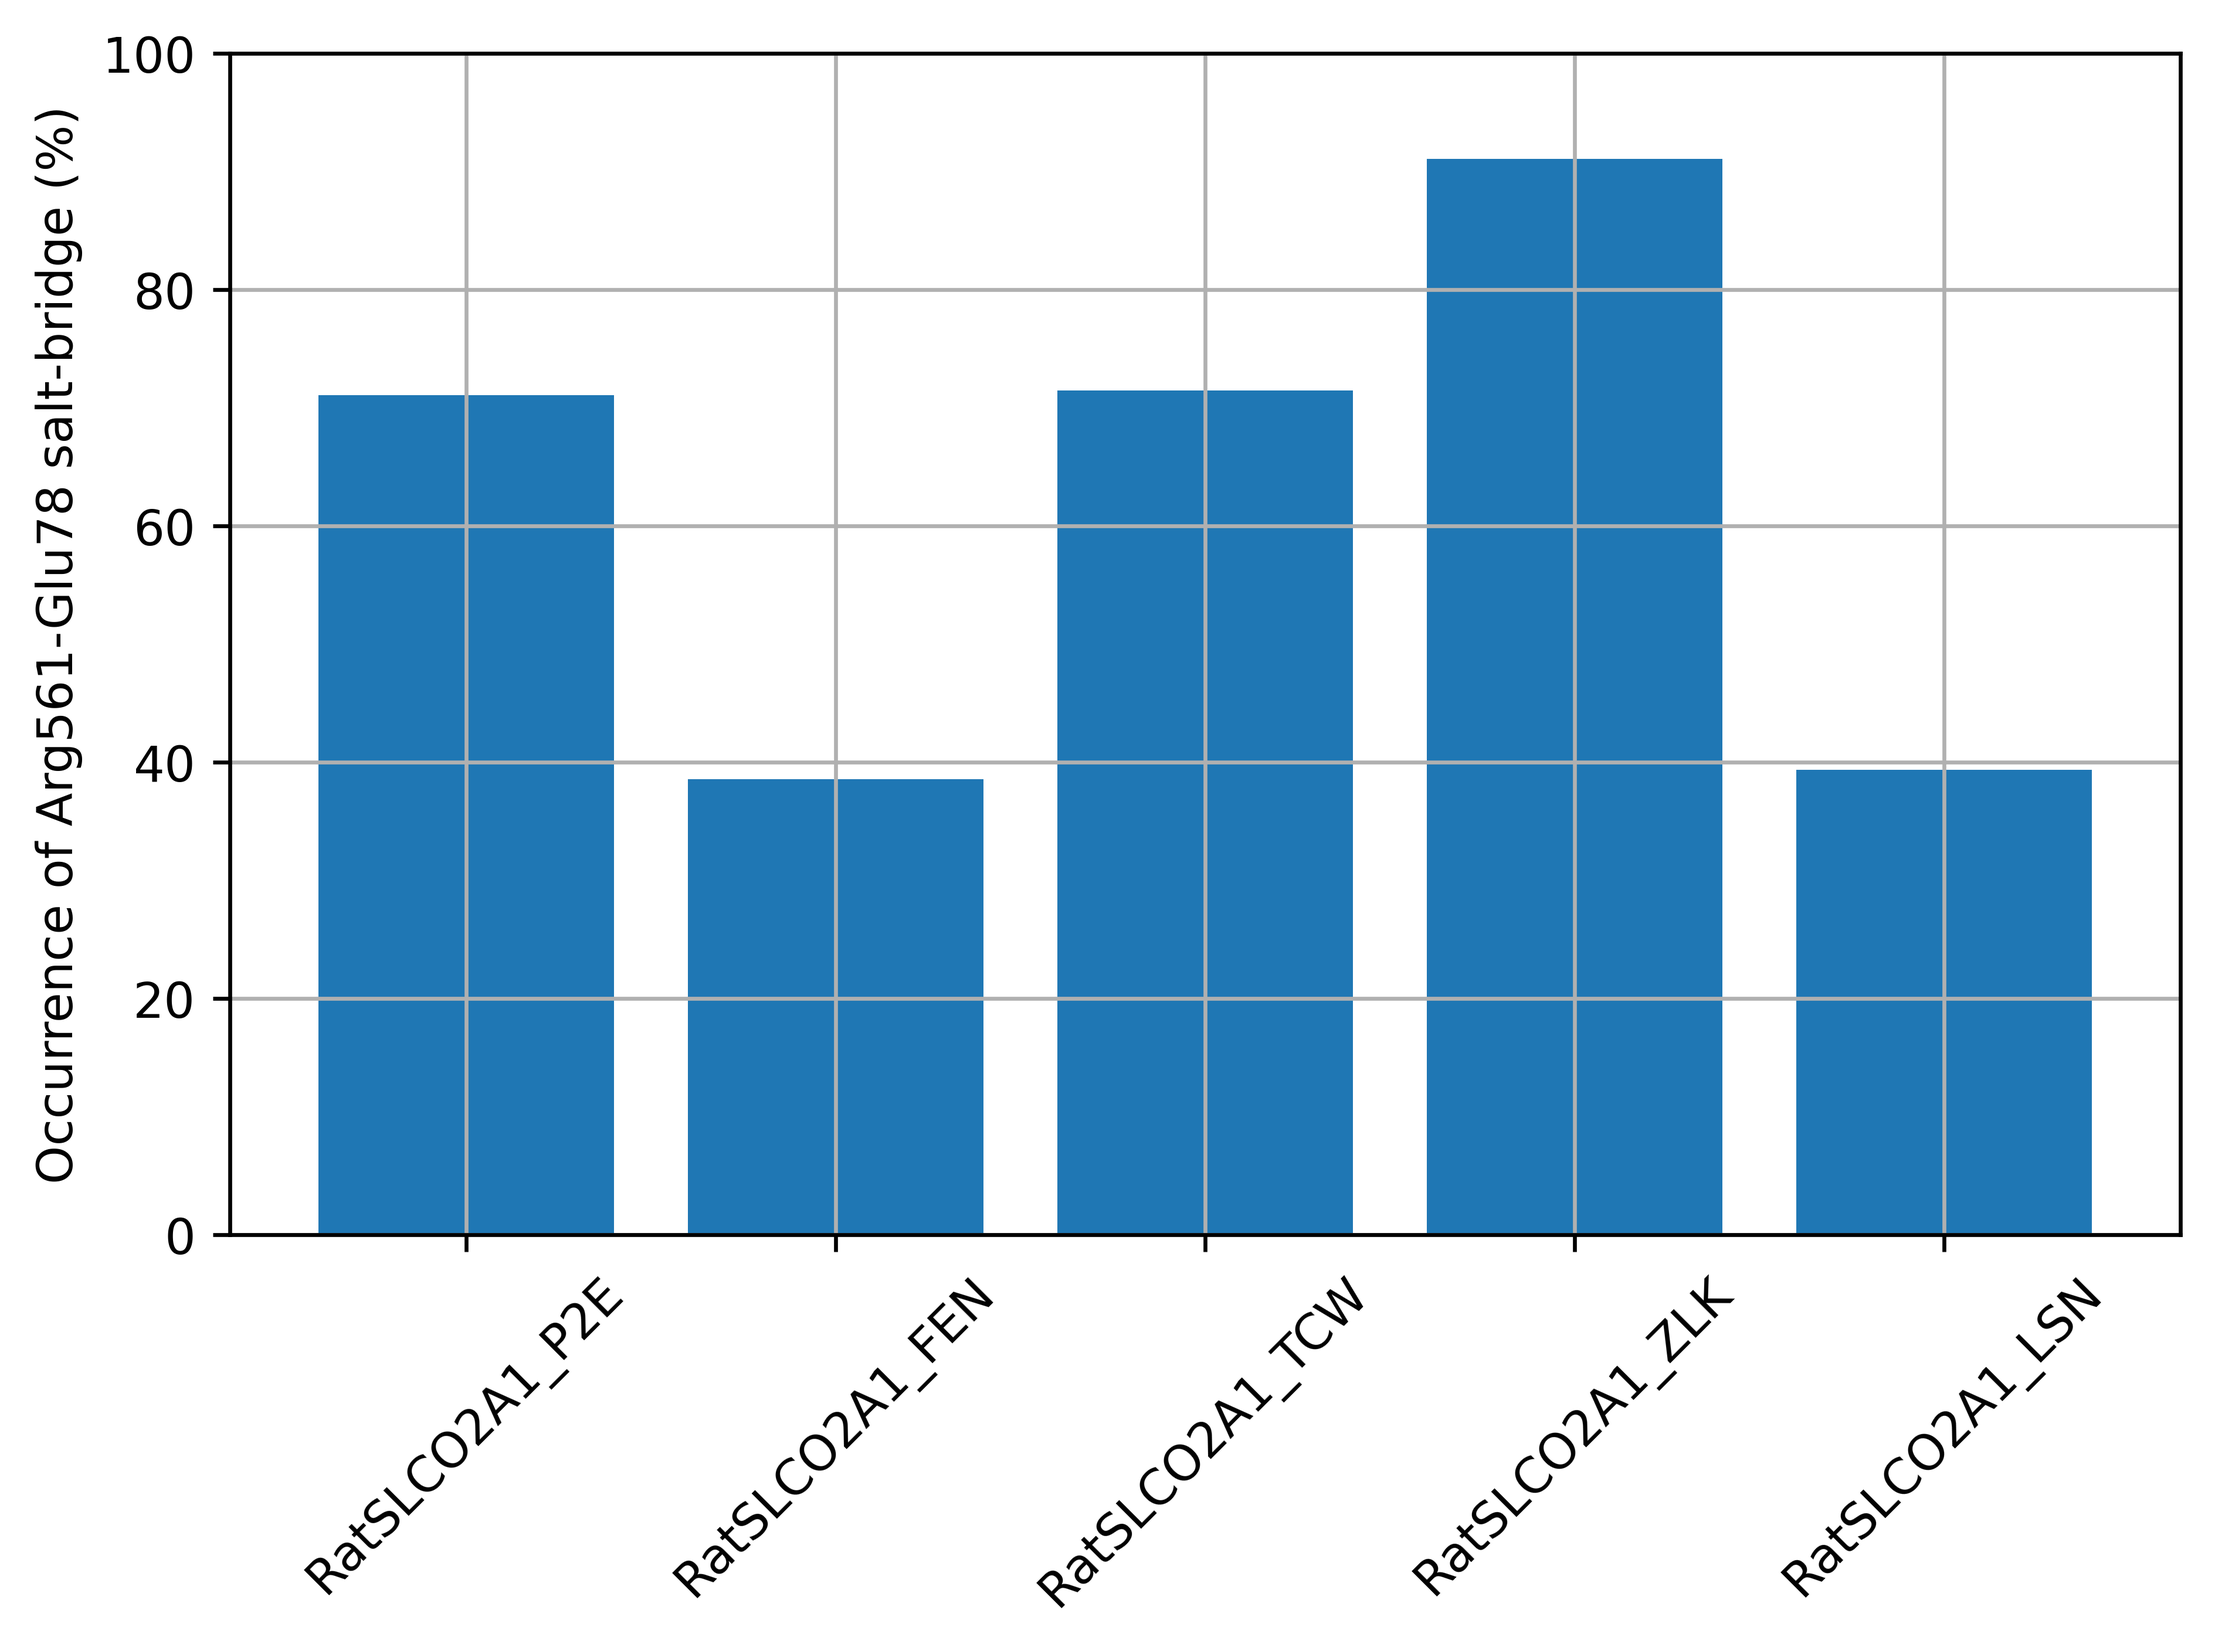
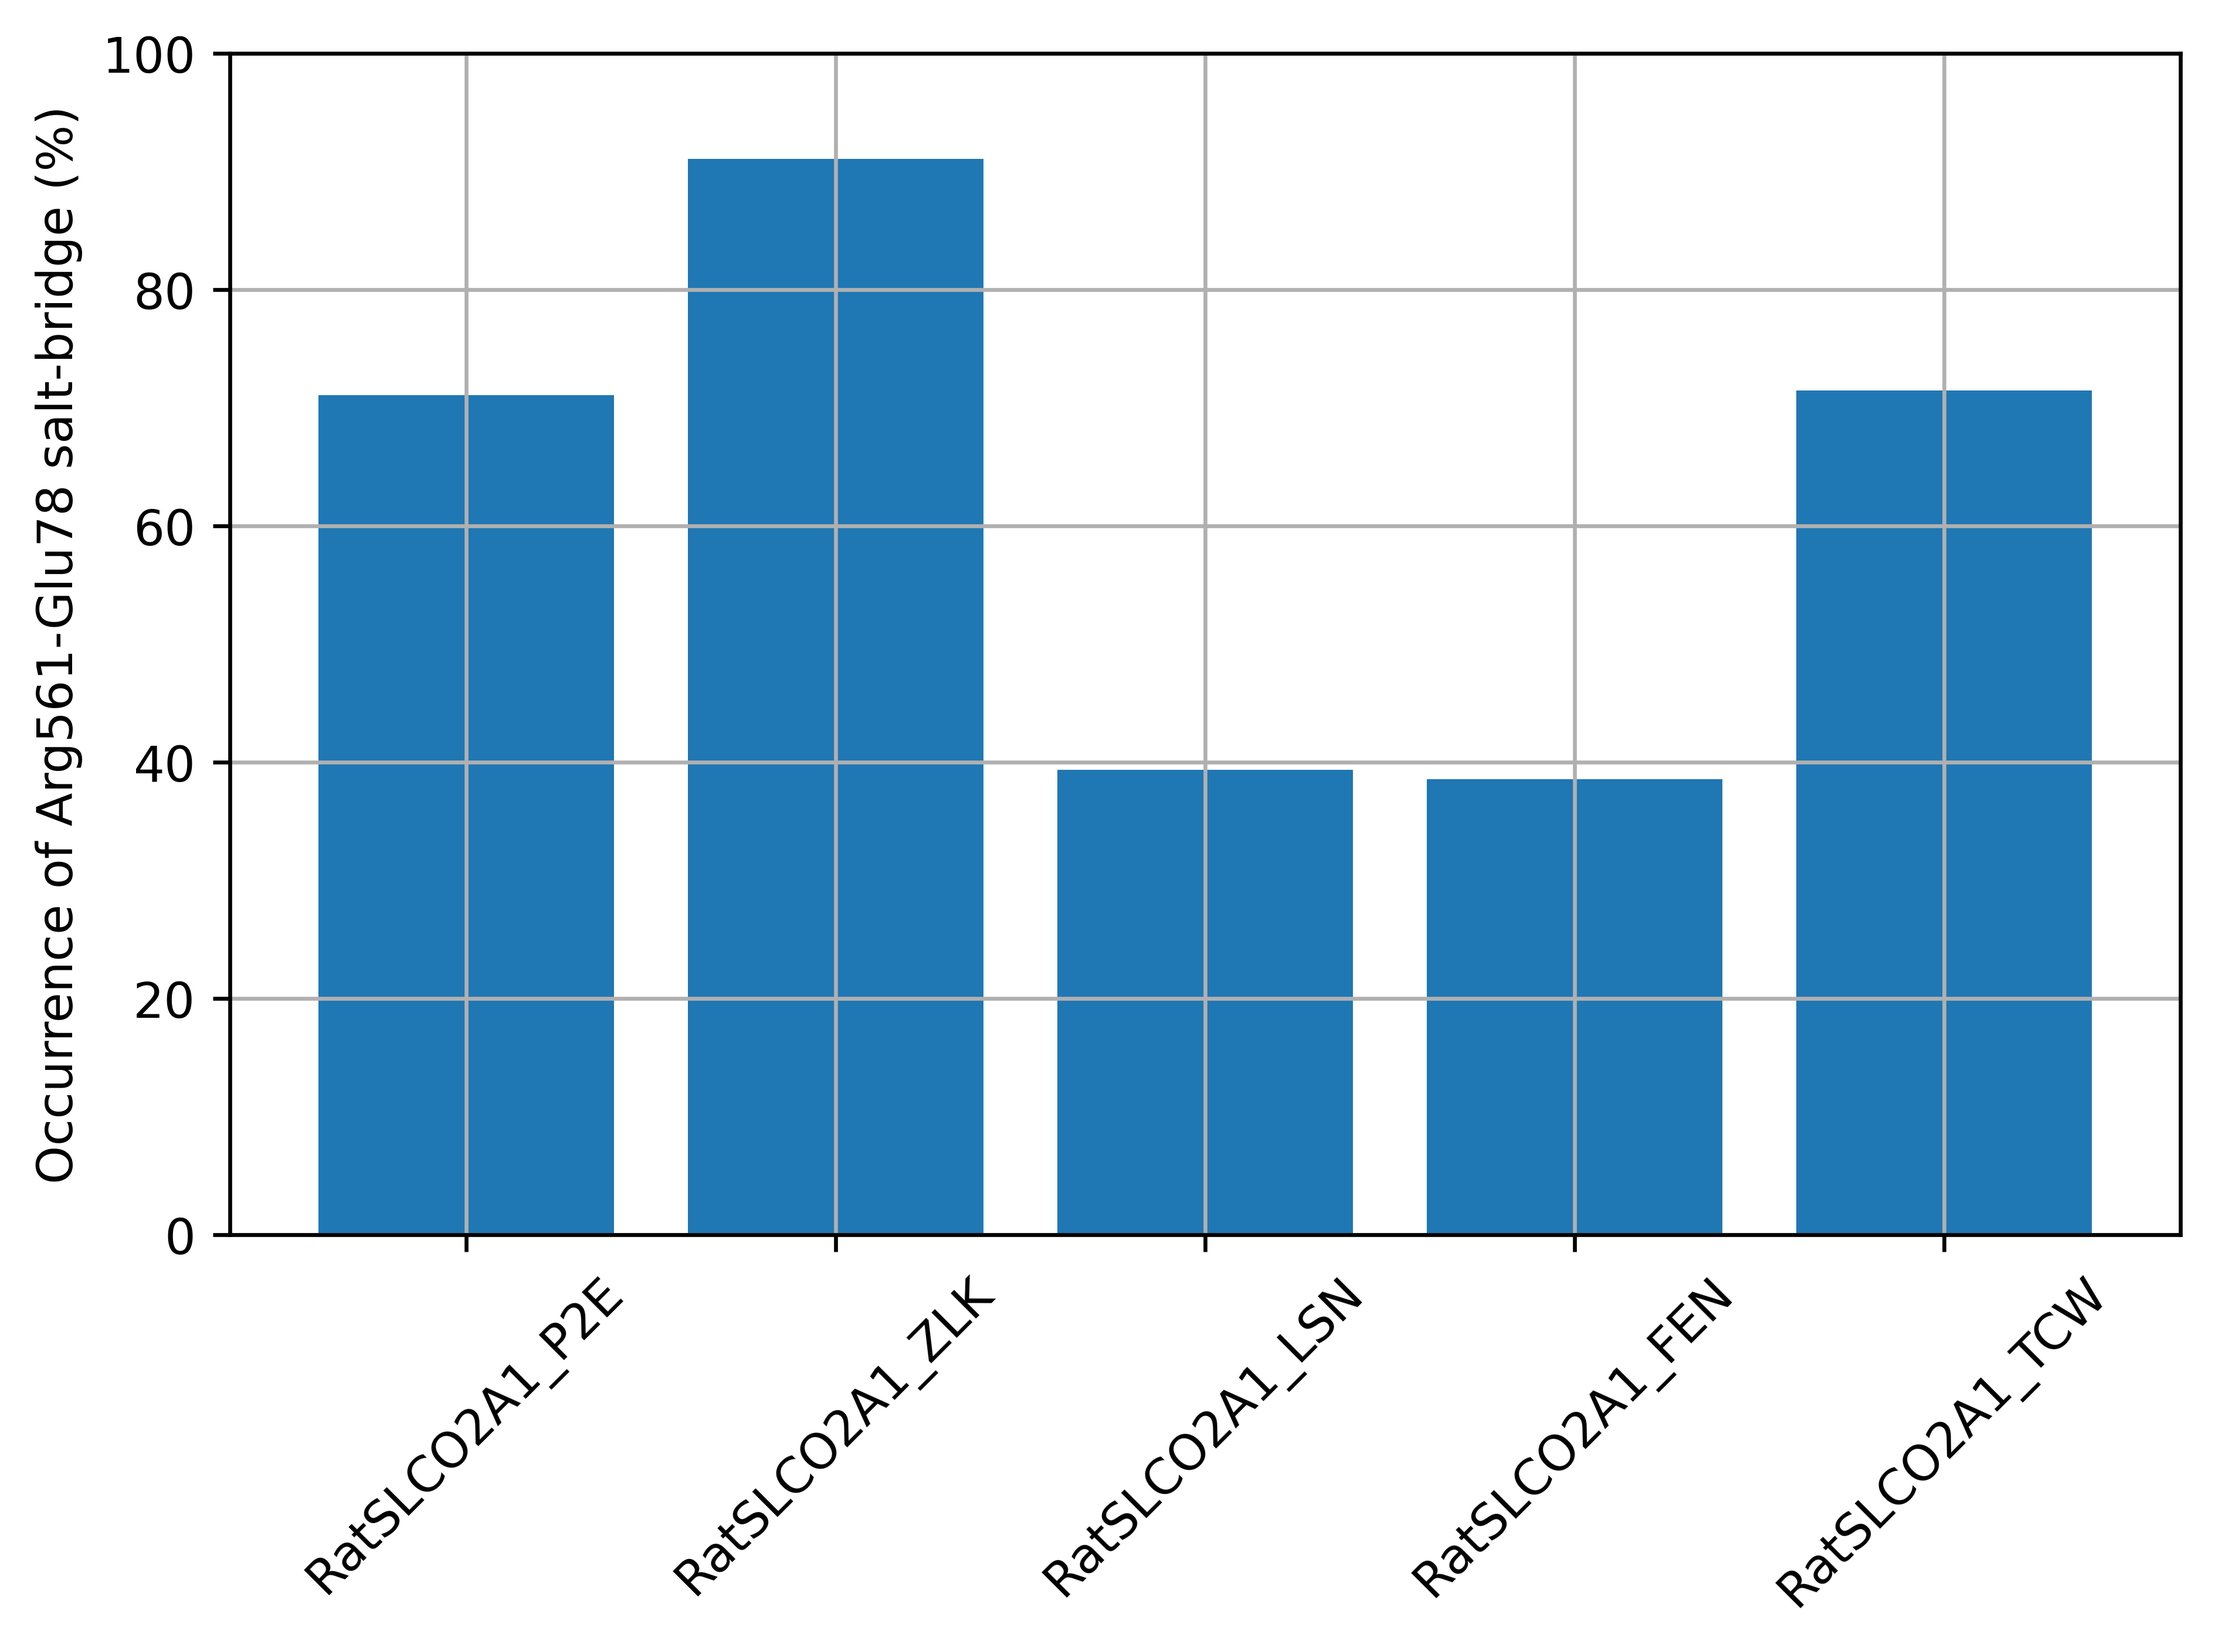
Minor tweaks

diff --git a/analyze_interactions.py b/analyze_interactions.py
@@ -225,8 +225,8 @@ def plot_interaction_frequencies(df, output_file):
 if __name__ == "__main__":
     t0 = time.time()
 
-    sys.stdout = Logger("interaction_analysis.log")
-    sys.stderr = Logger("interaction_analysis.log")
+    sys.stdout = Logger("results/interaction_analysis.log")
+    sys.stderr = Logger("results/interaction_analysis.log")
 
     rc('font', **{
         'family': 'sans-serif',
@@ -240,10 +240,10 @@ if __name__ == "__main__":
 
     systems = [
         "RatSLCO2A1_P2E",
-        "RatSLCO2A1_FEN",
-        "RatSLCO2A1_TCW",
         "RatSLCO2A1_ZLK",
         "RatSLCO2A1_LSN",
+        "RatSLCO2A1_FEN",
+        "RatSLCO2A1_TCW",
     ]
     ligand_names = [system.split('_')[-1] for system in systems]
 
@@ -314,7 +314,7 @@ if __name__ == "__main__":
 
         hydrophobic_cols = [col for col in df.columns if col[protein_level].upper() in hydrophobic_band and col[interaction_level] == "Hydrophobic"]
         p_hydrophobic = df[hydrophobic_cols].any(axis=1).mean() * 100
-        print(f"The ligand had hydrophobic interactions with the hydrophobic band {p_hydrophobic:.2f} of the frames.")
+        print(f"The ligand had hydrophobic interactions with the hydrophobic band {p_hydrophobic:.2f}% of the frames.")
 
         final_df = summarize_interactions(df, freq_threshold=0)
         interaction_565_dict = final_df[final_df.index == "Trp565"].to_dict()
